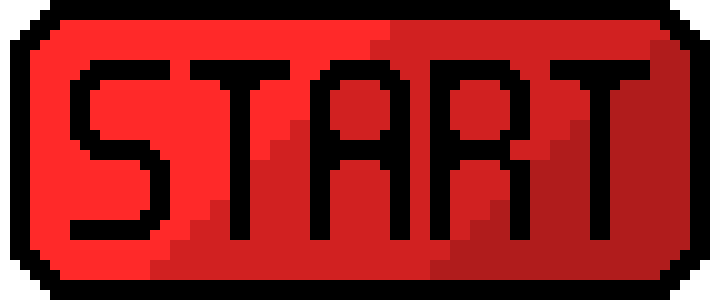
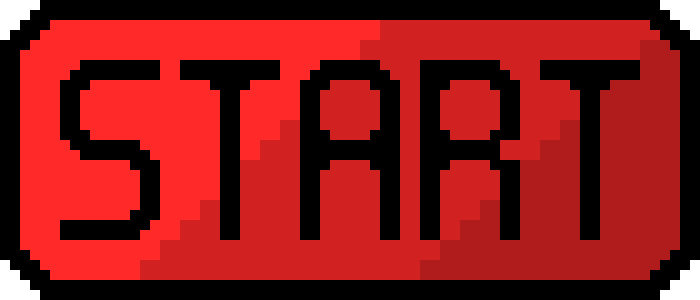
Better Start Button

diff --git a/Button_Start.cpp b/Button_Start.cpp
@@ -17,6 +17,9 @@ using namespace std;
 class ScreenManager;
 
 Button_Start::Button_Start(int x, int y, int w, int h, SDL_Renderer* r, int& currentScreen, Map& map) : Button(x, y, w, h, r), currentScreen(currentScreen), map(map) {
+	unclicked_img = IMG_LoadTexture(renderer, "StartButtonRed.png");
+	clicked_img = IMG_LoadTexture(renderer, "StartButtonBlue.png");
+	current_img = unclicked_img;
 }
 
 //~Button_Start() {
@@ -38,6 +41,14 @@ void Button_Start::clicked() {
 	currentScreen = 1;
 }
 
+void Button_Start::pressed() {
+	current_img = clicked_img;
+}
+
+void Button_Start::released() {
+	current_img = unclicked_img;
+}
+
 void Button_Start::render() {
 	SDL_Rect rect;
 	rect.x = xpos;
@@ -47,10 +58,10 @@ void Button_Start::render() {
 	//SDL_FillRect(screenSurface, &rect, SDL_MapRGB(screenSurface->format, 0x00, 0xFF, 0x00));
 	//SDL_SetRenderDrawColor( renderer, 100, 50, 0, 255 );
 
-	SDL_Texture *img = NULL;
-	int w, h; // texture width & height
-	img = IMG_LoadTexture(renderer, "StartButtonRed.png");
-	SDL_QueryTexture(img, NULL, NULL, &w, &h); // get the width and height of the texture
-	SDL_RenderCopy(renderer, img, NULL, &rect);
+	//SDL_Texture *img = NULL;
+	//int w, h; // texture width & height
+	//img = IMG_LoadTexture(renderer, "StartButtonRed.png");
+	//SDL_QueryTexture(current_img, NULL, NULL, &w, &h); // get the width and height of the texture
+	SDL_RenderCopy(renderer, current_img, NULL, &rect);
 	//SDL_RenderFillRect(renderer, &rect);
 }

diff --git a/Screen_MainMenu.cpp b/Screen_MainMenu.cpp
@@ -23,6 +23,21 @@ Screen_MainMenu::Screen_MainMenu(EventHandler* eventHandler, SDL_Renderer* r, in
 //  delete button_start;
 //}
 
+void Screen_MainMenu::mousePressedUp() {
+ for (Component* c : components) {
+	 if (c->isOver(eventHandler->xMouse, eventHandler->yMouse)) {
+		 c->clicked();
+	 }
+ }
+ button_start->released();
+}
+
+void Screen_MainMenu::mousePressedDown() {
+	if (button_start->isOver(eventHandler->xMouse, eventHandler->yMouse)) {
+		button_start->pressed();
+	}
+}
+
 void Screen_MainMenu::update() {
 }
 
@@ -34,4 +49,3 @@ void Screen_MainMenu::render() {
 	//cout <<  rect.w << endl;
 	button_start->render();
 }
-

diff --git a/Component.cpp b/Component.cpp
@@ -10,20 +10,20 @@ using namespace std;
 Component::Component(int x, int y, int w, int h, SDL_Renderer* r) : xpos(x), ypos(y), width(w), height(h), renderer(r) {
 }
 
-//~Component() {`
-//  delete renderer;
-//}
 
-bool Component::isOver(int mousex, int mousey) {
+ bool Component::isOver(int mousex, int mousey) {
 	bool over = (mousex >= xpos && mousex < (xpos + width) && mousey >= ypos && mousey < (ypos + height));
-	//cout << over << endl;
 	return over;
 }
 
 void Component::clicked() {
-	//cout << "Clicked3" << endl;
+}
+
+void Component::pressed() {
+}
+
+void Component::released() {
 }
 
 void Component::render() {
 }
-

diff --git a/Screen.cpp b/Screen.cpp
@@ -22,8 +22,6 @@ Screen::Screen(EventHandler* eventHandler, SDL_Renderer* r, int w, int h) : widt
 	//}
 
 	 void Screen::mousePressedUp() {
-		//cout << "somewhere clicked" << end;
-		//cout << "Clicked02" << endl;
 		for (Component* c : components) {
 			if (c->isOver(eventHandler->xMouse, eventHandler->yMouse)) {
 				c->clicked();
@@ -41,6 +39,4 @@ Screen::Screen(EventHandler* eventHandler, SDL_Renderer* r, int w, int h) : widt
 	}
 
 	 void Screen::render() {
-		//cout <<  "Problem" << endl;
 	}
-

diff --git a/Button.h b/Button.h
@@ -14,7 +14,9 @@ using namespace std;
 class Button : public Component{
 public:
 	Button(int x, int y, int w, int h, SDL_Renderer* r);
-	virtual void clicked() override;
+	virtual void clicked() override; //mouse released on button
+	virtual void pressed() override; //mouse first presses button
+	virtual void released() override; //mouse is released
 	virtual void render()  override;
 
 };

diff --git a/Button_Start.h b/Button_Start.h
@@ -23,7 +23,12 @@ public:
 	Button_Start(int x, int y, int w, int h, SDL_Renderer* r, int& currentScreen, Map& map);
 	//~Button_Start();
 	void clicked() override;
+  void pressed() override;
+  void released() override;
 	void render() override;
+  SDL_Texture *unclicked_img;
+  SDL_Texture *clicked_img;
+  SDL_Texture *current_img;
 	int& currentScreen;
 	Map& map;
 };

diff --git a/Screen_MainMenu.h b/Screen_MainMenu.h
@@ -19,6 +19,8 @@ class Screen_MainMenu : public Screen {
 public:
 	Screen_MainMenu(EventHandler* eventHandler, SDL_Renderer* r, int w, int h, int& cs, Map& map);
 	//~Screen_MainMenu();
+	void mousePressedUp() override;
+	void mousePressedDown() override;
 	void update() override;
 	void render() override;
 

diff --git a/Button.cpp b/Button.cpp
@@ -13,7 +13,12 @@ Button::Button(int x, int y, int w, int h, SDL_Renderer* r) : Component(x, y, w,
 }
 
 void Button::clicked() {
-	cout << "Clicked1" << endl;
+}
+
+void Button::pressed() {
+}
+
+void Button::released() {
 }
 
 void Button::render() {

diff --git a/Component.h b/Component.h
@@ -15,6 +15,8 @@ public:
 	//~Component();
 	virtual bool isOver(int mousex, int mousey);
 	virtual void clicked();
+	virtual void pressed();
+	virtual void released();
 	virtual void render();
 
 	int xpos;
